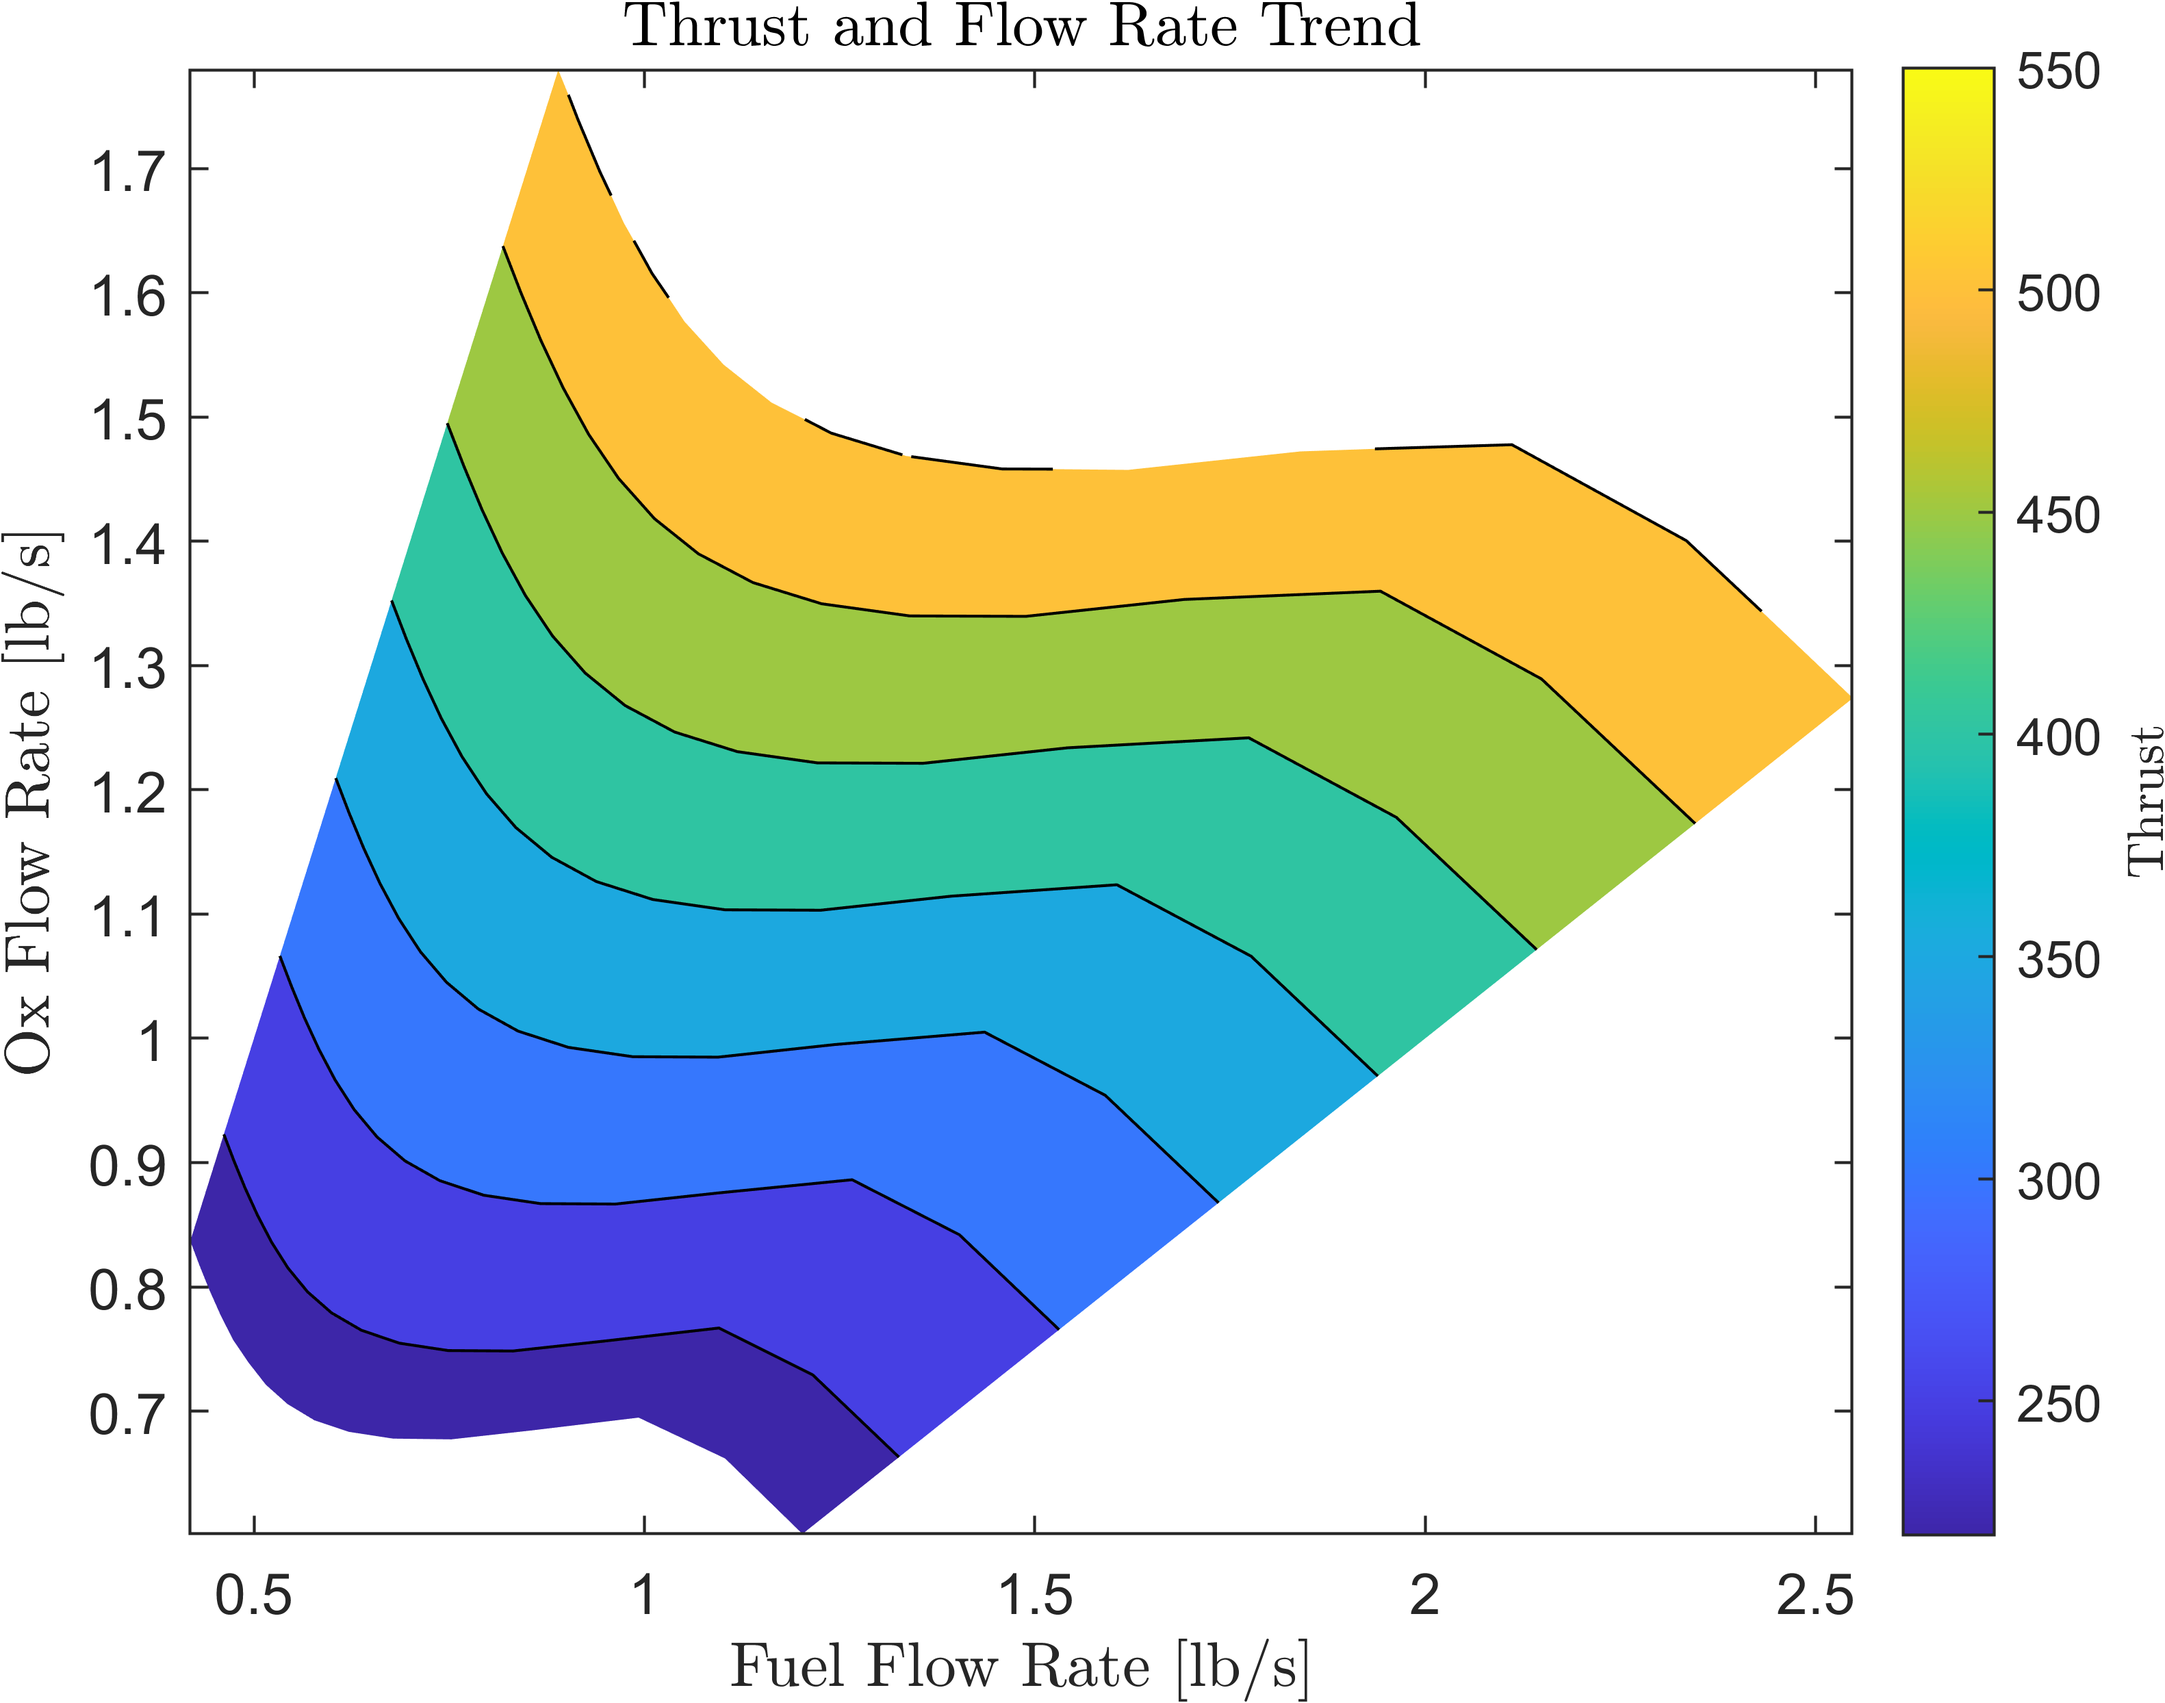
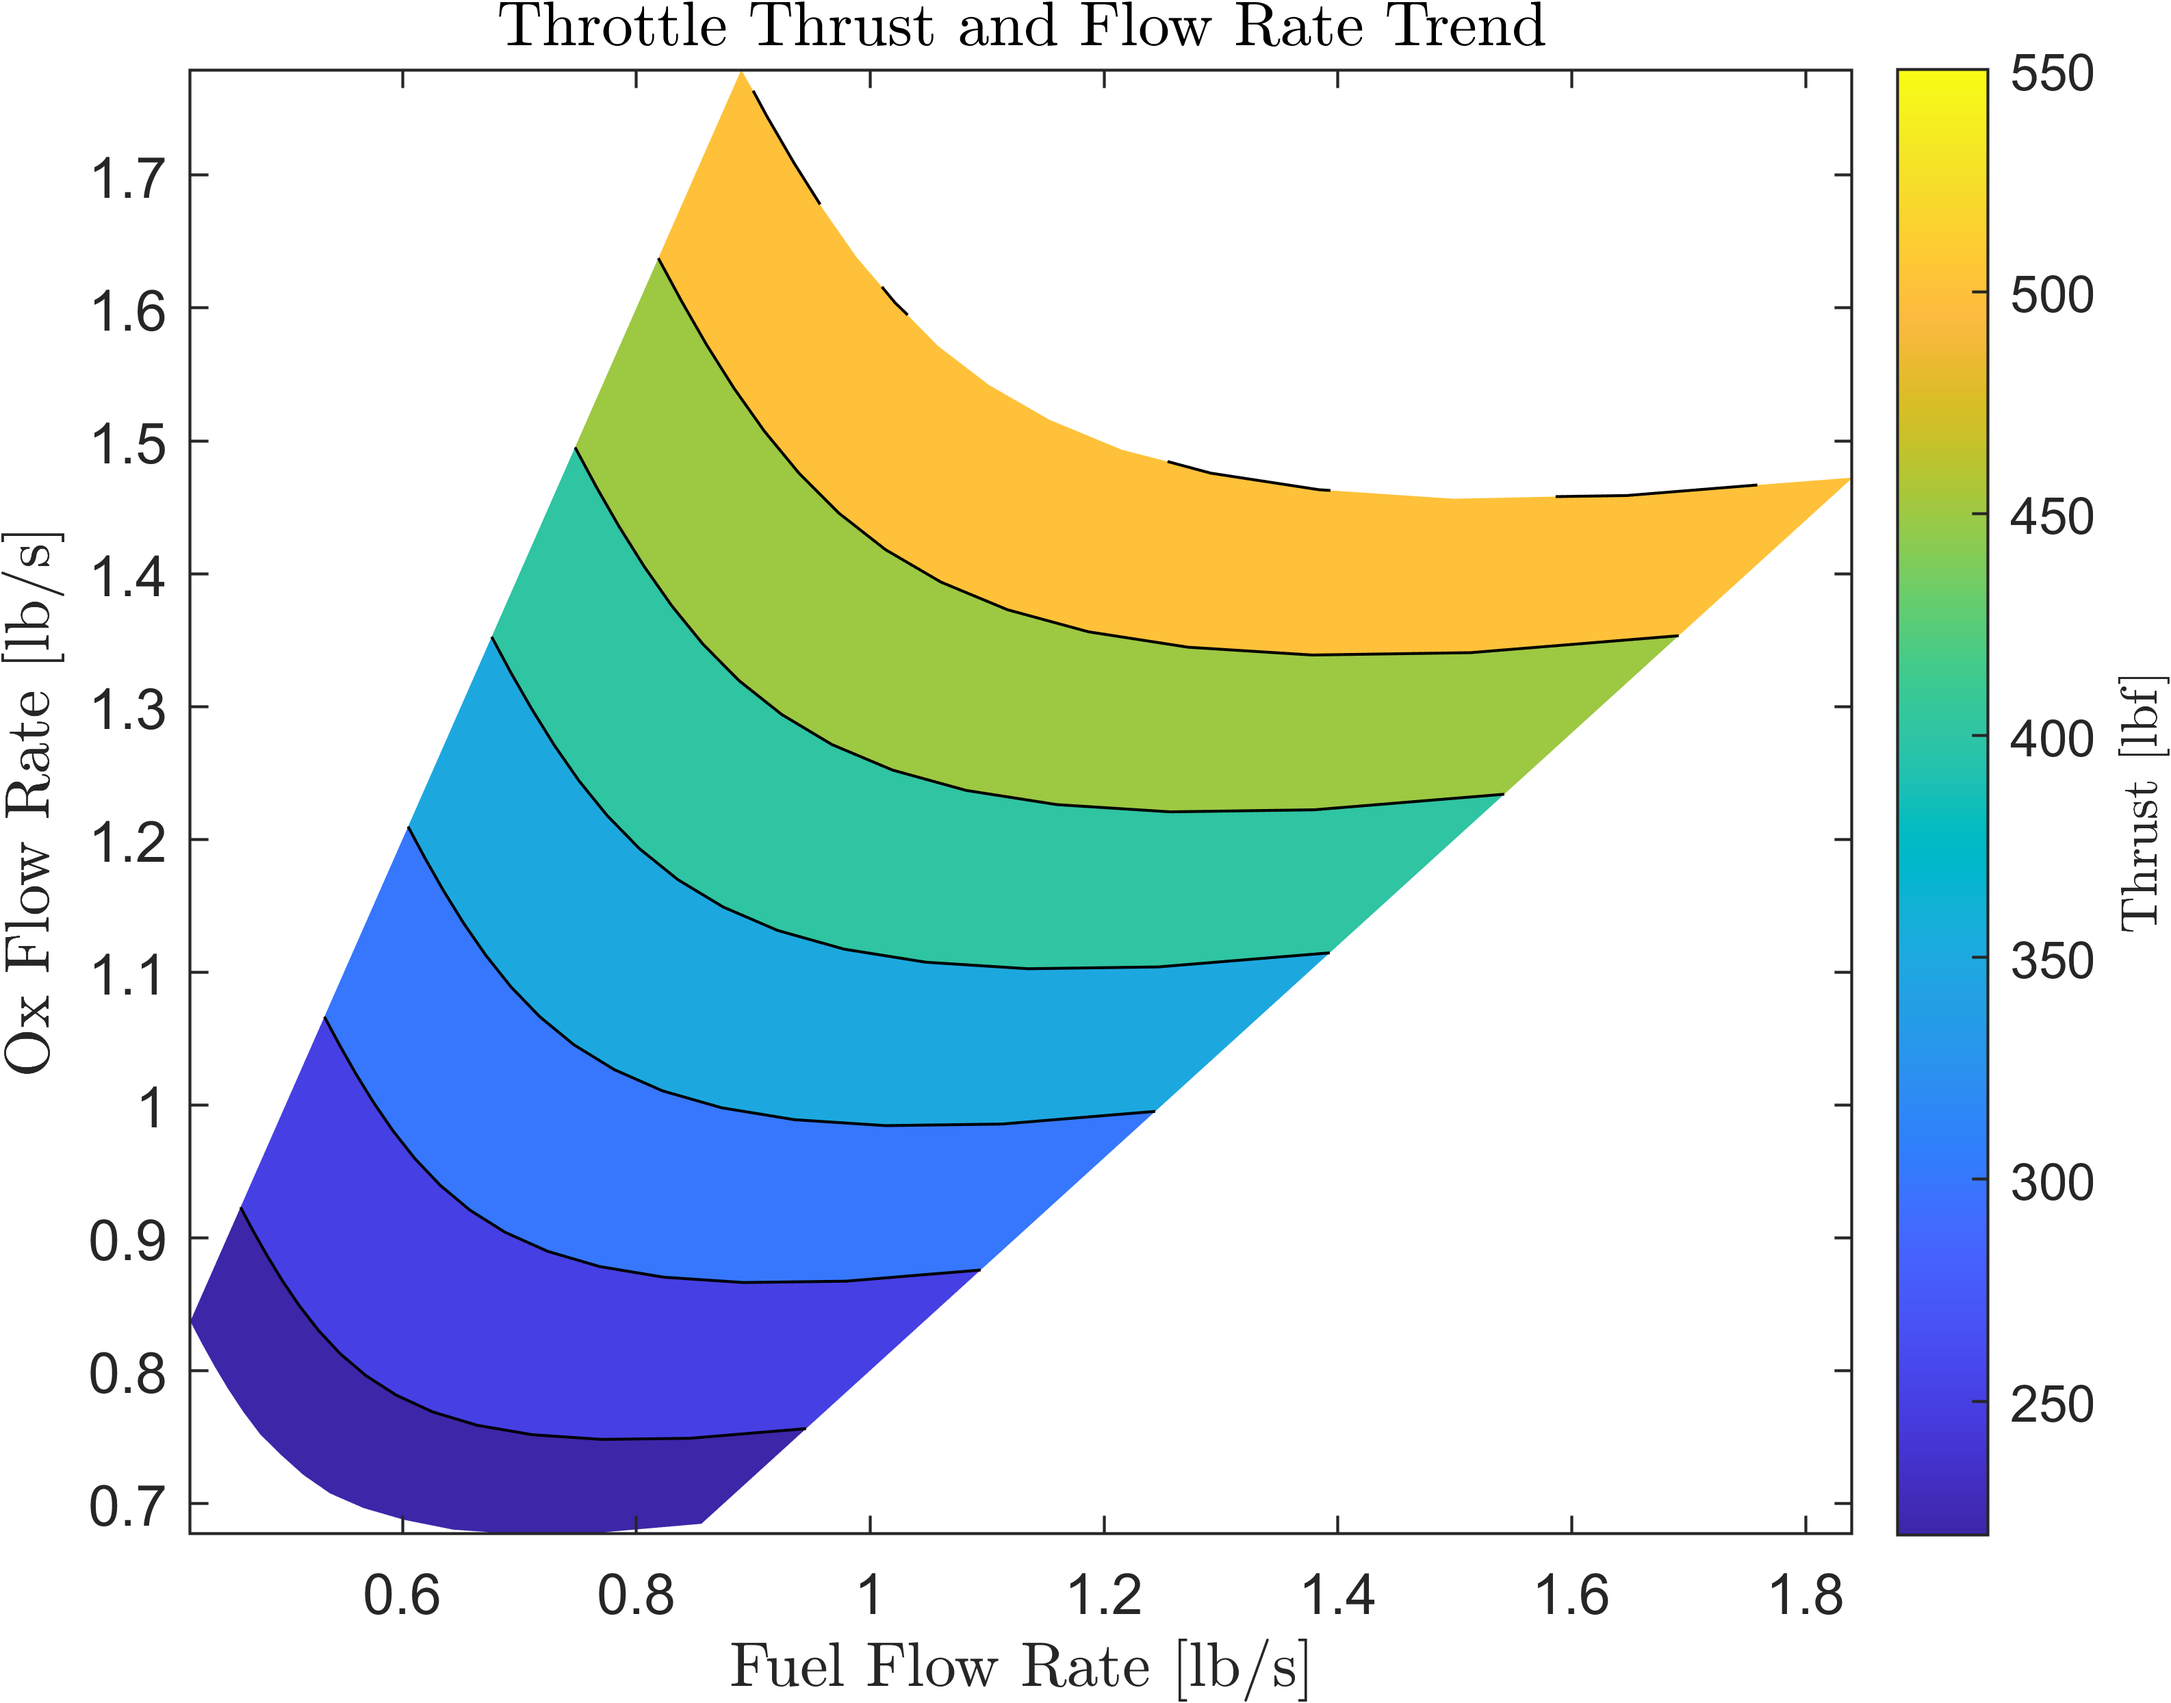
throttle script upgrades

diff --git a/Throttle/Throttle_Full_range_OF_Vary.m b/Throttle/Throttle_Full_range_OF_Vary.m
@@ -8,8 +8,12 @@ CEA_input_name = 'throttle';
 
 
 %% System Constants
-breakpoints = 5;
+breakpoints = 15;
+g = 9.81;   % Gravity [m/s^2]
+g_imperial = 32.2 * 12; % Gravity [in/s^2]
 
+
+%% Chamber Parameters
 R_t = 0.7335/39.37; % throat radius [m]
 At =  pi*R_t^2; % Throat Area [meters]
 exp_ratio = 2.8153; % Expansion ratio;
@@ -19,8 +23,6 @@ cstar_eff = 0.92;   % C* efficency
 cf_eff = 0.95;  % Cf efficiency;
 throttle_pct = linspace(0.4, 1, breakpoints);
 thrust_max = 2446.52;   % Max Thrust [N]
-g = 9.81;   % Gravity [m/s^2]
-g_imperial = 32.2 * 12;            % in/s^2
 Pa = 14.7;  % Atmospheric Pressure [P]
 
 
@@ -42,7 +44,7 @@ oxidizer_temp = 90.17; % [K]
 fuel = 'C3H8O,2propanol'; % fuel definition
 fuel_weight = 100; % 
 oxidizer = 'O2(L)'; % oxidizer definition
-OF = 0.5:0.1:2; % oxidizer/fuel ratio
+OF = linspace(0.8, 2, breakpoints); % oxidizer/fuel ratio
 mdot = 1.2566; % Propellant mass flow rate [kg/s]
 rho_FUEL = 49.06838 / 12^3; % fuel density [lbm/in^3]
 rho_OX = 56.34 / 12^3;      % oxidizer density [lbm/in^3]
@@ -66,6 +68,8 @@ OF_throttle = zeros(1,breakpoints);
 cstar_cea = zeros(1,breakpoints);
 cf_cea = zeros(1,breakpoints);
 Pe_cea = zeros(1,breakpoints);
+Tc_ns_throttle = zeros(1,breakpoints);
+
 
 %% Throttle Iteration
  for j = 1:length(OF)   
@@ -113,54 +117,70 @@ Pe_cea = zeros(1,breakpoints);
         end
     
         % Throttle results
-        
-        throttle_thrust_actual(i,j) = thrust_guess;   % N
-        Pc_throttle_actual(i,j) = Pc_throttle_guess;   % Psi
+        throttle_thrust_actual(i,j) = thrust_guess * 0.224809;   % [lbf]
+        Pc_throttle_actual(i,j) = Pc_throttle_guess;   % [Psi]
         Pe_throttle(i,j) = Pe_cea;
-        mdot_guess = mdot_guess * 2.20462; % lbm/s
-        mdot_throttle_actual(i,j) = mdot_guess;  % lbm/s
-        fuel_massflow_rate(i,j) = mdot_guess / (1 + OF(j));  % lbm/s
-        ox_massflow_rate(i,j)= mdot_guess - fuel_massflow_rate(i,j); % lbm/s
-        isp_throttle(i,j) = isp_actual; % s
-        Tc_ns(i,j) = (Tc_ns - 273.15) * 9/5 + 32; % F
+        mdot_guess = mdot_guess * 2.20462; % [lbm/s]
+        mdot_throttle_actual(i,j) = mdot_guess;  % [lbm/s]
+        fuel_massflow_rate(i,j) = mdot_guess / (1 + OF(j));  % [lbm/s]
+        ox_massflow_rate(i,j)= mdot_guess - fuel_massflow_rate(i,j); % [lbm/s]
+        isp_throttle(i,j) = isp_actual; % [s]
+        Tc_ns_throttle(i,j) = (Tc_ns - 273.15) * 9/5 + 32; % [F]
     
         % Injector pressure calculations
-        P_OX_manifold(i,j) = (ox_massflow_rate(i,j) / (cd_OX * A_OX)) ^ 2 / (2 * rho_OX * g_imperial) + Pc_throttle_actual(i,j);   % Psi
-        P_FUEL_manifold(i,j) = (fuel_massflow_rate(i,j) / (cd_FUEL * A_FUEL)) ^ 2 / (2 * rho_FUEL * g_imperial) + Pc_throttle_actual(i,j); % Psi
+        P_OX_manifold(i,j) = (ox_massflow_rate(i,j) / (cd_OX * A_OX)) ^ 2 / (2 * rho_OX * g_imperial) + Pc_throttle_actual(i,j);   % [Psi]
+        P_FUEL_manifold(i,j) = (fuel_massflow_rate(i,j) / (cd_FUEL * A_FUEL)) ^ 2 / (2 * rho_FUEL * g_imperial) + Pc_throttle_actual(i,j); % [Psi]
         OX_stiffness(i,j) = (P_OX_manifold(i,j) - Pc_throttle_actual(i,j)) / Pc_throttle_actual(i,j); 
         FUEL_stiffness(i,j) = (P_FUEL_manifold(i,j) - Pc_throttle_actual(i,j)) / Pc_throttle_actual(i,j);
-         % Seperation Pressure
-        P_sep(i,j) = 2/3 *(Pc_throttle_actual(i,j)/Pa)^-0.2 * Pa;
+        
+        % Seperation Pressure
+        P_sep(i,j) = 2/3 *(Pc_throttle_actual(i,j)/Pa)^-0.2 * Pa; % [Psi]
     end
  end
+
+save('data_40%_OF_08_2')
 
 
 %% FIGURES
 
-
-f=figure('Name', 'OF and Flow Rate Trend');
+% OF vs flow rate 
+f=figure('Name', 'Throttle OF and Flow Rate Trend');
 set(gcf,'color','w')
+colormap jet
 hAxes.TickLabelInterpreter = 'latex';
-contourf(fuel_massflow_rate, ox_massflow_rate, fuel_massflow_rate./ox_massflow_rate)
-colormap turbo
+contourf(fuel_massflow_rate, ox_massflow_rate, ox_massflow_rate./fuel_massflow_rate)
 hbar = colorbar;
-title("OF and Flow Rate Trend",'Interpreter','latex')
+title("Throttle OF and Flow Rate Trend",'Interpreter','latex')
 xlabel("Fuel Flow Rate [lb/s]",'Interpreter','latex')
 ylabel("Ox Flow Rate [lb/s]",'Interpreter','latex')
 ylabel(hbar, "OF Ratio",'Interpreter','latex')
 exportgraphics(f,'OF_FlowRate_contour.png','Resolution',600)
 
-
-f=figure('Name', 'Thrust and Flow Rate Trend');
+% Thrust vs flow rate 
+f=figure('Name', 'Throttle Thrust and Flow Rate Trend');
 set(gcf,'color','w')
+colormap parula
 hAxes.TickLabelInterpreter = 'latex';
-contourf(fuel_massflow_rate, ox_massflow_rate, throttle_thrust_actual * 0.224809)
+contourf(fuel_massflow_rate, ox_massflow_rate, throttle_thrust_actual)
 hbar = colorbar;
-title("Thrust and Flow Rate Trend",'Interpreter','latex')
+title("Throttle Thrust and Flow Rate Trend",'Interpreter','latex')
 xlabel("Fuel Flow Rate [lb/s]",'Interpreter','latex')
 ylabel("Ox Flow Rate [lb/s]",'Interpreter','latex')
-ylabel(hbar, "Thrust",'Interpreter','latex')
+ylabel(hbar, "Thrust [lbf]",'Interpreter','latex')
 exportgraphics(f,'Thrust_FlowRate_contour.png','Resolution',600)
+
+% Temperature vs flow rate 
+f=figure('Name', 'Chamber Temperature and Flow Rate Trend');
+set(gcf,'color','w')
+colormap hot
+hAxes.TickLabelInterpreter = 'latex';
+contourf(fuel_massflow_rate, ox_massflow_rate, Tc_ns_throttle)
+hbar = colorbar;
+title("Chamber Temperature and Flow Rate Trend",'Interpreter','latex')
+xlabel("Fuel Flow Rate [lb/s]",'Interpreter','latex')
+ylabel("Ox Flow Rate [lb/s]",'Interpreter','latex')
+ylabel(hbar, "Temperature [F]",'Interpreter','latex')
+exportgraphics(f,'Temp_FlowRate_contour.png','Resolution',600)
  
 
 % % Throttle results for chamber
